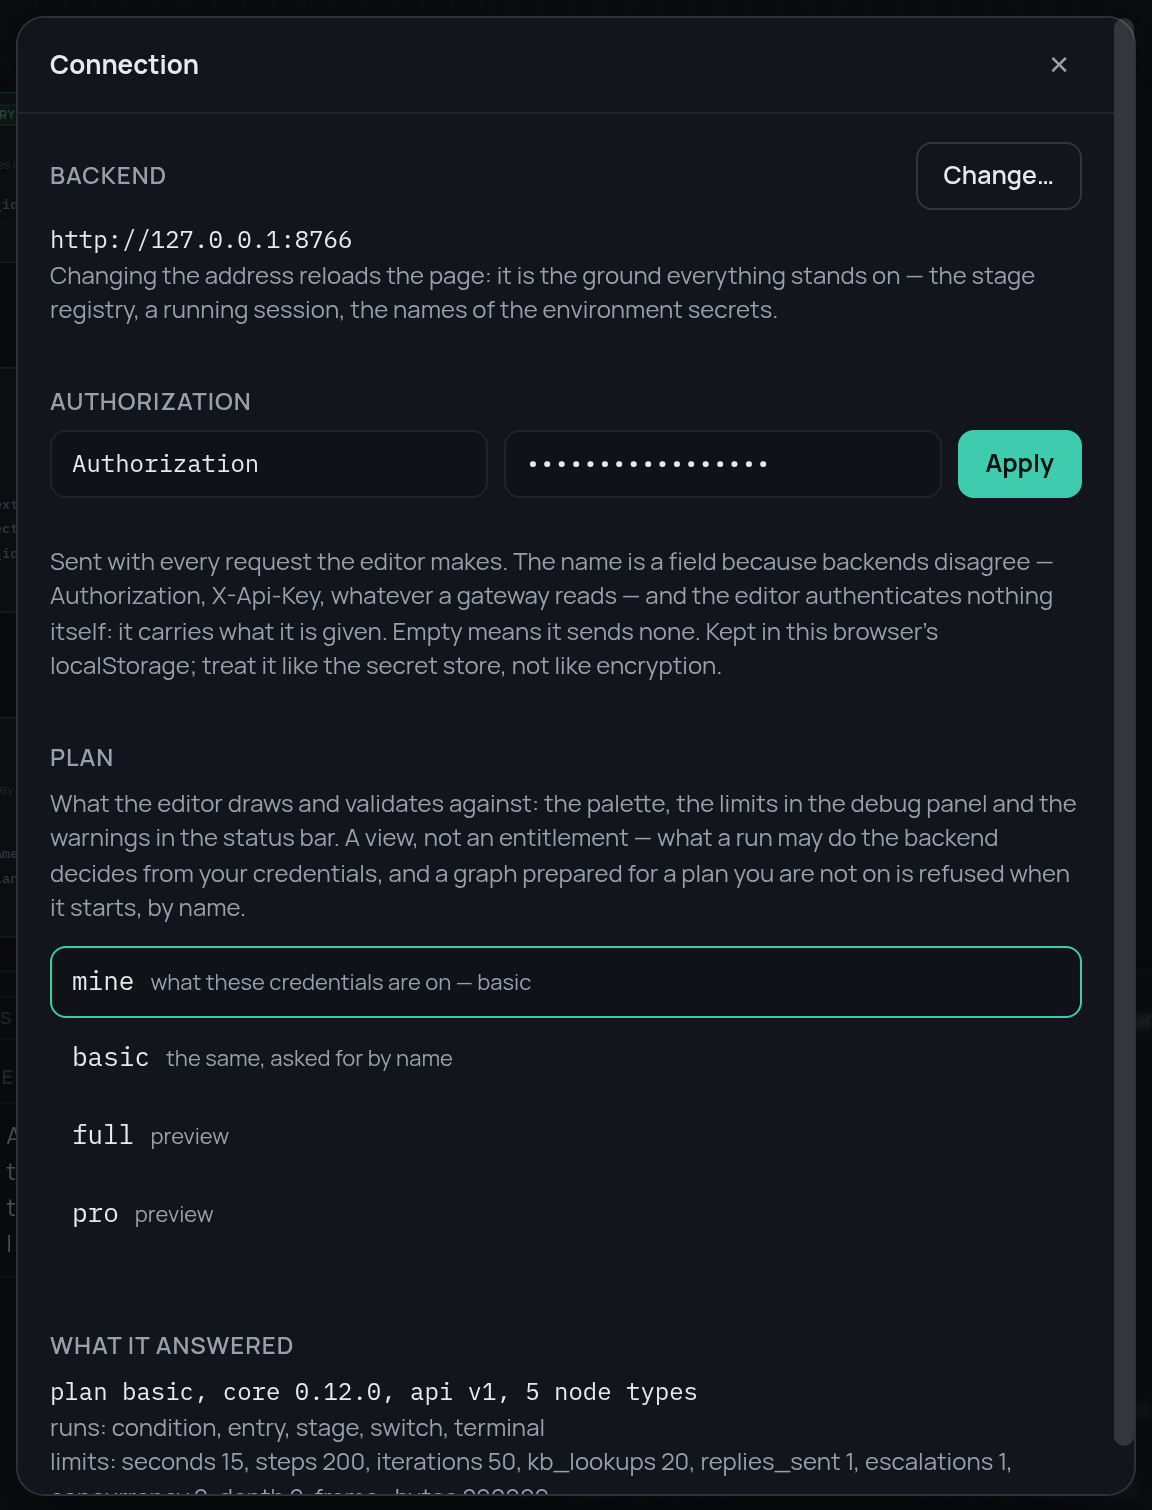
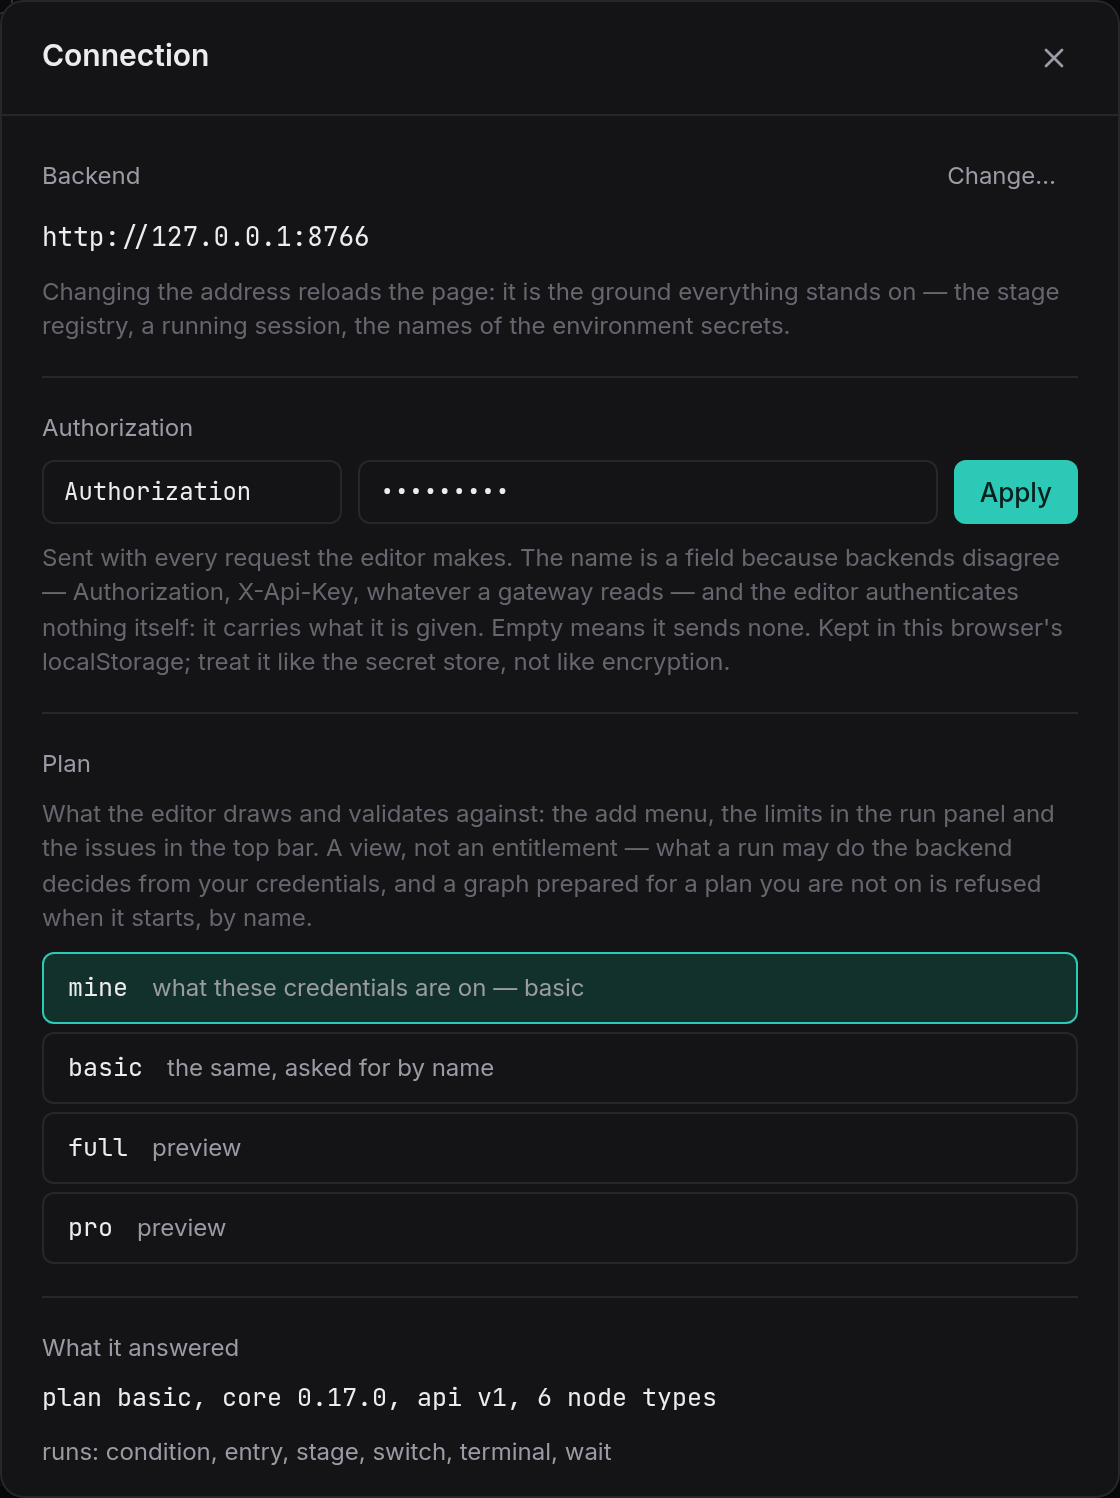
Docs: the backend track shows the 1.0 editor
New screenshots of the connection screen and dialog, the add menu on a plan,
a graph the plan cannot run, the meters, a refused run and a map run; the text
names the editor's places as they now are (the add menu, the top bar, the run
panel, ⋯ → Connection…).

Claude-Session: https://claude.ai/code/session_01CxyqgY7ZjRKxyX784dj7Wd

diff --git a/docs/backend/3-policy.ru.md b/docs/backend/3-policy.ru.md
@@ -77,7 +77,7 @@ async def meta(caller: CallerPlan) -> dict:
 ```
 
 Отдать спецификацию запрещённой стадии — значит заставить редактор нарисовать
-её в палитре, а прогон потом её отвергнуть. Ради устранения такого
+её в меню добавления, а прогон потом её отвергнуть. Ради устранения такого
 расхождения политику и завели — а здесь оно воспроизводится на один эндпоинт
 позже. `capabilities(policy)` делает то же самое для типов узлов.
 
@@ -86,10 +86,11 @@ async def meta(caller: CallerPlan) -> dict:
 
 ![Граф, который тариф не запустит, — сказано до запуска](../img/be-plan-refuses.png)
 
-Четыре типа узлов в палитре погашены, на проблемном узле стоит метка, а
-в строке состояния написано
+На проблемном узле стоит метка, верхняя панель говорит о проблеме, а сама
+проблема звучит как
 `per_ticket: plan 'basic' does not include a 'map' node` — и всё это до того,
-как кто-нибудь нажал «Run».
+как кто-нибудь нажал «Run». В меню добавления четыре типа узлов, которых нет
+в тарифе, погашены с той же причиной.
 
 ## Что валидация проверяет, а что отказывается угадывать
 

diff --git a/docs/backend/5-tenants.md b/docs/backend/5-tenants.md
@@ -78,7 +78,7 @@ async def meta(caller: CallerPlan, plan: ShownPlan = None) -> dict:
 ```
 
 A name is not a permission. Drawing is not running, and an editor that has to
-authenticate before it can grey out a palette entry is an editor nobody
+authenticate before it can grey out a menu entry is an editor nobody
 configures — so "what would this graph look like on the cheaper tier" is a
 question anybody may ask. `plans` is the list to offer, so no client has to
 hard-code names it cannot know.
@@ -108,8 +108,7 @@ property that no endpoint test notices being broken.
 
 ## What the editor makes of it
 
-All of it lands in one dialog — "File" → "Connection…", or a click on the
-backend line in the status bar:
+All of it lands in one dialog — **⋯ → Connection…** in the editor's top bar:
 
 ![The connection dialog](../img/be-connection.png){ width="520" }
 
@@ -117,7 +116,7 @@ The address (changing it reloads; it is the ground the session stands on), the
 credential (applied in place — a token goes stale *during* the work, and a
 refused one is rolled back so the session survives), the plan to draw against,
 and what the backend answered. `?plan=basic` on the editor's own URL opens it
-that way, and the status bar marks a preview as a preview so it cannot be
+that way, and the dialog marks a preview as a preview so it cannot be
 mistaken for an allowance.
 
 ## Where the line falls

diff --git a/docs/backend/2-endpoints.ru.md b/docs/backend/2-endpoints.ru.md
@@ -95,7 +95,7 @@ async def secrets() -> dict:
 
 Браузер узнаёт лишь то, что `OPENAI_API_KEY` существует. Значение
 подставляется в стартовый фрейм на сервере и вычищается из каждого события по
-дороге обратно, чтобы ключ не вернулся на страницу через отладочный лог.
+дороге обратно, чтобы ключ не вернулся на страницу через лог событий.
 Подробнее — в
 [Секретах](https://github.com/leo-need-more-coffee/stageflow-ui/blob/main/docs/secrets.md).
 
@@ -117,8 +117,7 @@ async def meta() -> dict:
 отклонил бы, и редактор гасит такой узел вместо того, чтобы гадать.
 
 За бэкенд, который `/meta` не отдаёт, редактор ничего не додумывает: ничего
-не помечается, всё работает как раньше, а в строке состояния сказано, что
-версия неизвестна.
+не помечается, всё работает как раньше.
 
 ## CORS, и два разных случая
 

diff --git a/docs/backend/1-stages.ru.md b/docs/backend/1-stages.ru.md
@@ -49,7 +49,7 @@ class LoadTicketStage(BaseStage):
 докстрингу не надо знать, какой язык кто-то хотел
 ([Локализация](../localization.ru.md)).
 
-![Палитра собрана из спецификаций, которые отдал бэкенд](../img/be-plan-palette.png){ width="240" }
+![Меню добавления собрано из спецификаций, которые отдал бэкенд](../img/be-plan-palette.png){ width="560" }
 
 ## Маленькие и об одном
 
@@ -125,7 +125,7 @@ self.emit("reply_sent", {"ticket_id": ticket_id, "channel": "email", "chars": le
 
 Одна форма payload — это уже не соглашение, а контракт. Всё, в чём есть
 `{"stream": true, "text": "…"}`, редактор считает куском текста, который узел
-пишет прямо сейчас, и выводит в отдельной колонке отладочной панели по мере
+пишет прямо сейчас, и выводит в событиях панели прогона по мере
 поступления:
 
 ```python

diff --git a/docs/backend/3-policy.md b/docs/backend/3-policy.md
@@ -77,7 +77,7 @@ async def meta(caller: CallerPlan) -> dict:
 ```
 
 Sending the specs of a stage the policy forbids would have the editor draw it
-in the palette and the run refuse it — exactly the mismatch the policy exists
+in the add menu and the run refuse it — exactly the mismatch the policy exists
 to remove, reintroduced one endpoint later. `capabilities(policy)` does the
 same for node types.
 
@@ -86,9 +86,10 @@ needs a `map`:
 
 ![A graph the plan cannot run, said before the run](../img/be-plan-refuses.png)
 
-Four node types are dim in the palette, the offending node carries a marker,
-and the status bar reads `per_ticket: plan 'basic' does not include a 'map'
-node` — before anybody presses Run.
+The offending node carries a marker, the top bar says there is a problem, and
+the problem reads `per_ticket: plan 'basic' does not include a 'map' node` —
+before anybody presses Run. The add menu shows the four node types the plan
+lacks greyed out, each with the same reason.
 
 ## What validation checks, and what it refuses to guess
 

diff --git a/docs/backend/1-stages.md b/docs/backend/1-stages.md
@@ -49,7 +49,7 @@ then serves every language at once and the editor picks for its reader, so
 nothing about this endpoint or this docstring has to know which language anybody
 wanted ([Localization](../localization.md)).
 
-![The palette, built from the specs the backend serves](../img/be-plan-palette.png){ width="240" }
+![The add menu, built from the specs the backend serves](../img/be-plan-palette.png){ width="560" }
 
 ## Small, and about one thing
 
@@ -123,7 +123,7 @@ listens for.
 
 One payload shape is a contract rather than a convention. Anything with
 `{"stream": true, "text": "…"}` is treated by the editor as a piece of text
-the node is writing right now, and shown in a column of the debug panel as it
+the node is writing right now, and shown in the events of the run panel as it
 arrives:
 
 ```python

diff --git a/docs/backend/2-endpoints.md b/docs/backend/2-endpoints.md
@@ -94,7 +94,7 @@ async def secrets() -> dict:
 
 The browser learns that `OPENAI_API_KEY` exists. The value is substituted into
 the starting frame on the server and scrubbed back out of every event on the
-way to the page, so a key does not return through the debug log. The full
+way to the page, so a key does not return through the event log. The full
 story is on [Secrets](https://github.com/leo-need-more-coffee/stageflow-ui/blob/main/docs/secrets.md).
 
 ## Saying what you can run
@@ -115,7 +115,7 @@ exactly a name a run would refuse, and the editor greys it out instead of
 guessing.
 
 A backend that does not serve `/meta` is not second-guessed: nothing is
-marked, everything works, and the editor says the version is unknown.
+marked and everything works.
 
 ## CORS, twice
 

diff --git a/docs/backend/4-metering.ru.md b/docs/backend/4-metering.ru.md
@@ -96,7 +96,7 @@ usage приезжает последним чанком, в котором бо
 
 ## Как это выглядит
 
-Отладочная панель показывает, сколько прогон израсходовал и из чего, — и во
+Панель прогона показывает, сколько прогон израсходовал и из чего, — и во
 время прогона, и после него:
 
 ![Счётчики после прогона на дешёвом тарифе](../img/be-meters.png)

diff --git a/docs/backend/4-metering.md b/docs/backend/4-metering.md
@@ -93,7 +93,7 @@ ceiling on nothing.
 
 ## What it looks like
 
-The debug panel shows what the run has spent against what it was allowed,
+The run panel shows what the run has spent against what it was allowed,
 during the run and after it:
 
 ![Meters after a run on the cheap plan](../img/be-meters.png)
